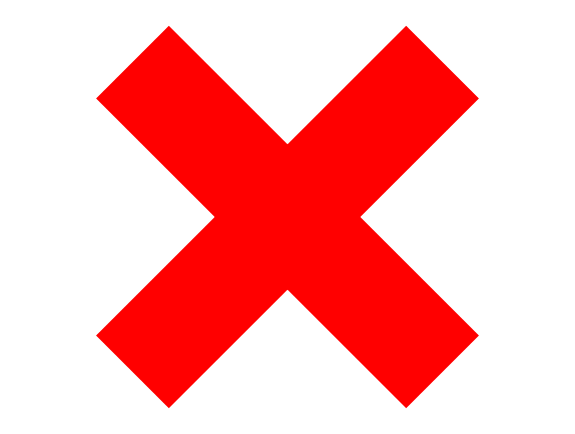
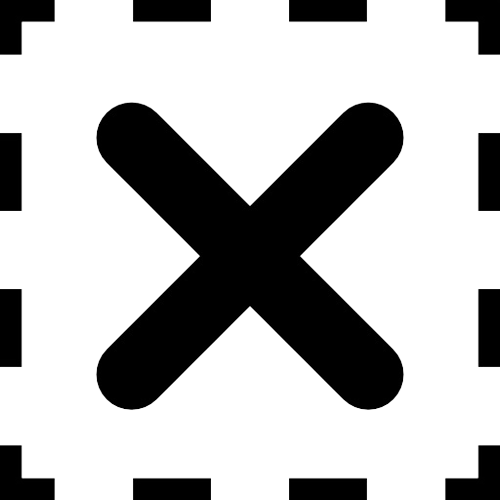
creando editar nota

diff --git a/rapid-note/src/components/Notes.js b/rapid-note/src/components/Notes.js
@@ -1,3 +1,4 @@
+/* eslint-disable no-unused-expressions */
 /* eslint-disable no-undef */
 import React, { useState } from "react";
 import { Note } from "./Note.js";
@@ -9,9 +10,11 @@ import {
   where,
   query,
   deleteDoc,
+  updateDoc,
   doc
 } from "firebase/firestore";
 import closeNote from "../img/closeNote.png";
+import editNote from "../img/editNote.png";
 
 export const Notes = () => {
   // eslint-disable-next-line no-unused-vars
@@ -27,8 +30,16 @@ export const Notes = () => {
   };
 
   const onDeleteNote = (id) => {
-    console.log(id);
     deleteDoc(doc(db, 'notes', id))
+  }
+
+  const onEditNote = (id, title, description, objectNote) => {
+    updateDoc(doc(db, 'notes', id), {title, description}, objectNote);
+  };
+
+  const onEditRapidNotes = (id, title, description, objectNote) => {
+    onEditNote(id, title, description, objectNote);
+    getNotes();
   }
 
   const getNotes = async () => {
@@ -54,6 +65,14 @@ export const Notes = () => {
         {notes.map((note) => (
           <div className="notesContent" key={note.id} >
             <div className="noteCard">
+              <div className="contentBtnEdit">
+              <button
+                className="editNote"
+                onClick = {(e)=> {e.stopPropagation(); onEditRapidNotes(note.id)}}
+              >
+                <img src={editNote} className="closeNote" alt="btn" />
+              </button>
+              </div>
               <div className="contentBtnClose">
               <button
                 className="btnClose"

diff --git a/rapid-note/src/components/Notes.css b/rapid-note/src/components/Notes.css
@@ -1,15 +1,33 @@
 @media only screen and (min-device-width: 810px) {
 
   .contentBtnClose {
-    margin-left: 16em;
-    margin-top: 2vmin;
+    margin-left: 15em;
+    margin-top: -7vmin;
     width: 2vmin;
+    border: none;
   }
   .closeNote {
     width: 6vmin;
     background-color: rgb(247, 247, 156);
     margin-left: 0vmin;
     margin-top: 0vmin;
+    border: none;
+  }
+  .btnClose {
+    border: none;
+    background-color: rgb(247, 247, 156);
+  }
+  .contentBtnEdit {
+    margin-right: 17em;
+    margin-top: 0vmin;
+    width: 2vmin;
+  }
+  .editNote {
+    width: 7vmin;
+    background-color: rgb(247, 247, 156);
+    margin-left: -1vmin;
+    margin-top: 3vmin;
+    border-radius: 5px;
     border: none;
   }
 }

diff --git a/rapid-note/src/components/Note.css b/rapid-note/src/components/Note.css
@@ -37,7 +37,7 @@
   .titleAddNote{
     font-family: "Sanchez";
     font-size: calc(22px + 4vmin);
-    color: white;
+    color: black;
     margin-top: 2vmin;
     margin-left: 0vmin;
   }
@@ -90,7 +90,6 @@
     justify-content: center;
     background-color: rgb(247, 247, 156);
     width: 90vw;
-    height: 25vh;
     border-radius: 15px;
     font-family: "Sanchez";
     font-size: calc(22px + 2vmin);

diff --git a/rapid-note/src/components/Home.css b/rapid-note/src/components/Home.css
@@ -5,7 +5,7 @@
 }
 .App-logotext {
   width: 70vmin;
-  margin-left: 14vmin;
+  margin-left: 13vmin;
   margin-top: -40vmin;
 }
 .App-logo {
